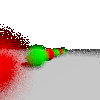
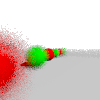
modified: average alpha value as well!

Changed region(s): [[0.0, 0.24, 1.0, 1.0]]

diff --git a/ray_tracer/program_optimize.py b/ray_tracer/program_optimize.py
@@ -165,10 +165,10 @@ class PNG:
             forward /= forward_length
         for xs in range(self.w):
             for ys in range(self.h):
-                print("Rendering pixels: ", xs, ys)
+                # print("Rendering pixels: ", xs, ys)
                 # shoot aaNum rays on this pixel, and average the color
                 allRaysMissed = True
-                accumulatedFragColor = np.array([0.0, 0.0, 0.0])
+                accumulatedFragColor = np.array([0.0, 0.0, 0.0, 1.0])
                 for _ in range(self.aaNum):
                     ray_origin = self.eye
                     if(self.aaNum == 1):
@@ -201,10 +201,12 @@ class PNG:
                     fragColor, hasHitObject = self.ray_tracing([ray_origin, ray_direction], emittingObject=None, bounces=self.bounces)
                     if(hasHitObject):
                         allRaysMissed = False
-                        accumulatedFragColor += fragColor
+                        accumulatedFragColor += np.array([*fragColor, 1])
+                    else:
+                        accumulatedFragColor += np.array([0.0, 0.0, 0.0, 0.0])
                 if(not allRaysMissed):
                     avgFragColor = accumulatedFragColor / self.aaNum
-                    self.fillPixels(xs, ys, *avgFragColor, 1, self.enableSRGB)
+                    self.fillPixels(xs, ys, *avgFragColor, self.enableSRGB)
 
     def getDiffuseLightWithShadows(self, hitPoint, hitObject, normal):
         diffuseColor = np.array([0.0, 0.0, 0.0])

diff --git a/ray_tracer/submit/program_optimize.py b/ray_tracer/submit/program_optimize.py
@@ -168,7 +168,7 @@ class PNG:
                 # print("Rendering pixels: ", xs, ys)
                 # shoot aaNum rays on this pixel, and average the color
                 allRaysMissed = True
-                accumulatedFragColor = np.array([0.0, 0.0, 0.0])
+                accumulatedFragColor = np.array([0.0, 0.0, 0.0, 1.0])
                 for _ in range(self.aaNum):
                     ray_origin = self.eye
                     if(self.aaNum == 1):
@@ -201,10 +201,12 @@ class PNG:
                     fragColor, hasHitObject = self.ray_tracing([ray_origin, ray_direction], emittingObject=None, bounces=self.bounces)
                     if(hasHitObject):
                         allRaysMissed = False
-                        accumulatedFragColor += fragColor
+                        accumulatedFragColor += np.array([*fragColor, 1])
+                    else:
+                        accumulatedFragColor += np.array([0.0, 0.0, 0.0, 0.0])
                 if(not allRaysMissed):
                     avgFragColor = accumulatedFragColor / self.aaNum
-                    self.fillPixels(xs, ys, *avgFragColor, 1, self.enableSRGB)
+                    self.fillPixels(xs, ys, *avgFragColor, self.enableSRGB)
 
     def getDiffuseLightWithShadows(self, hitPoint, hitObject, normal):
         diffuseColor = np.array([0.0, 0.0, 0.0])
